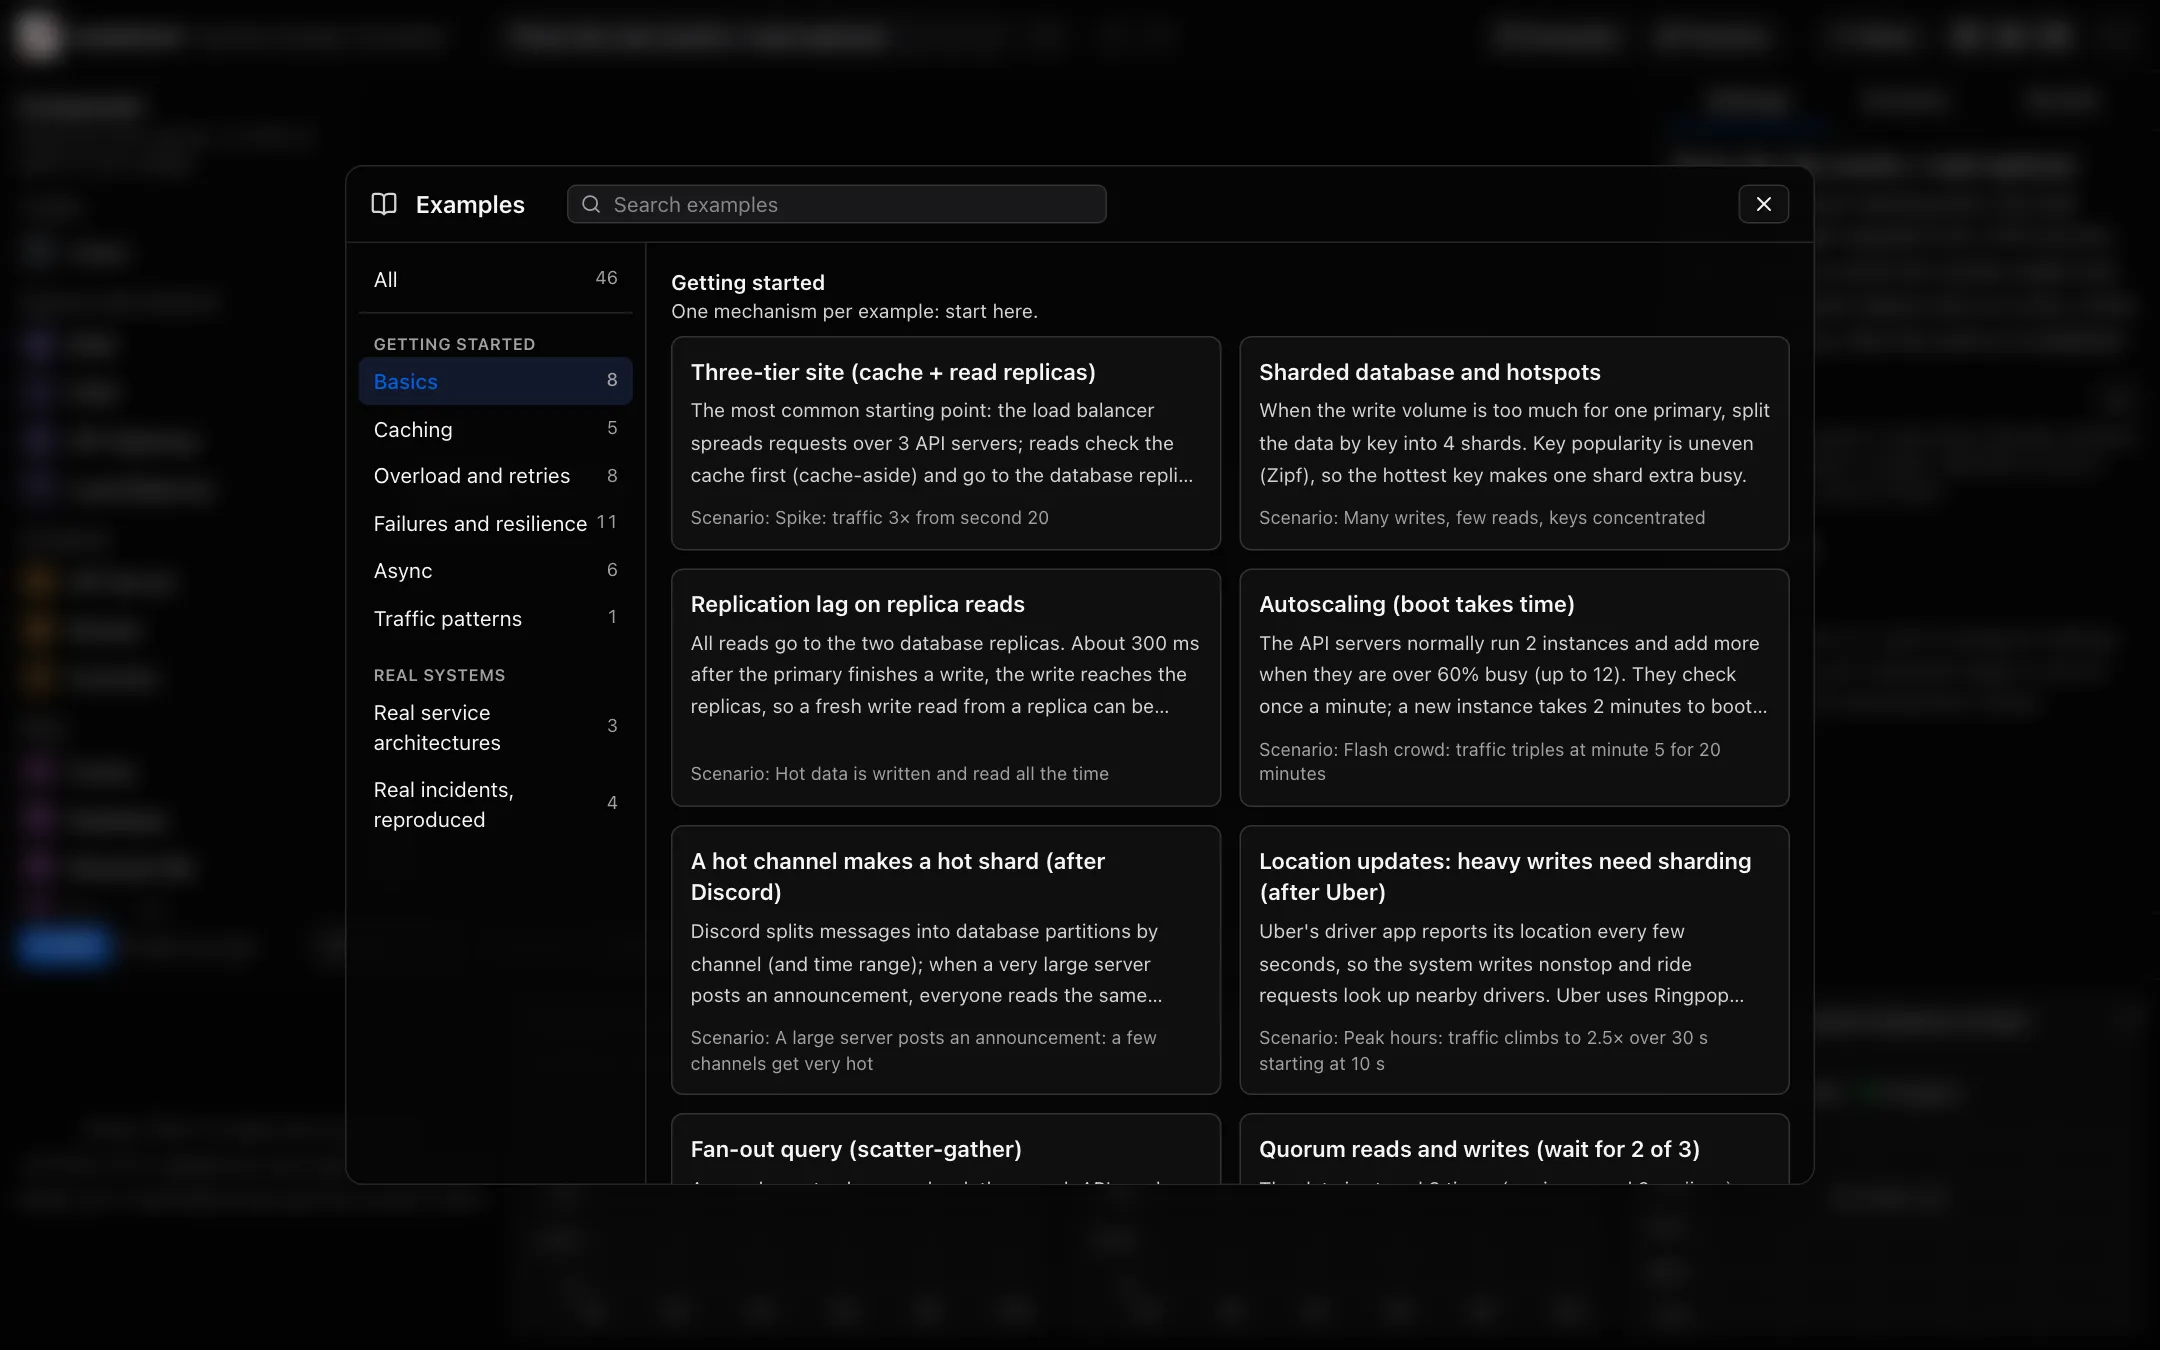
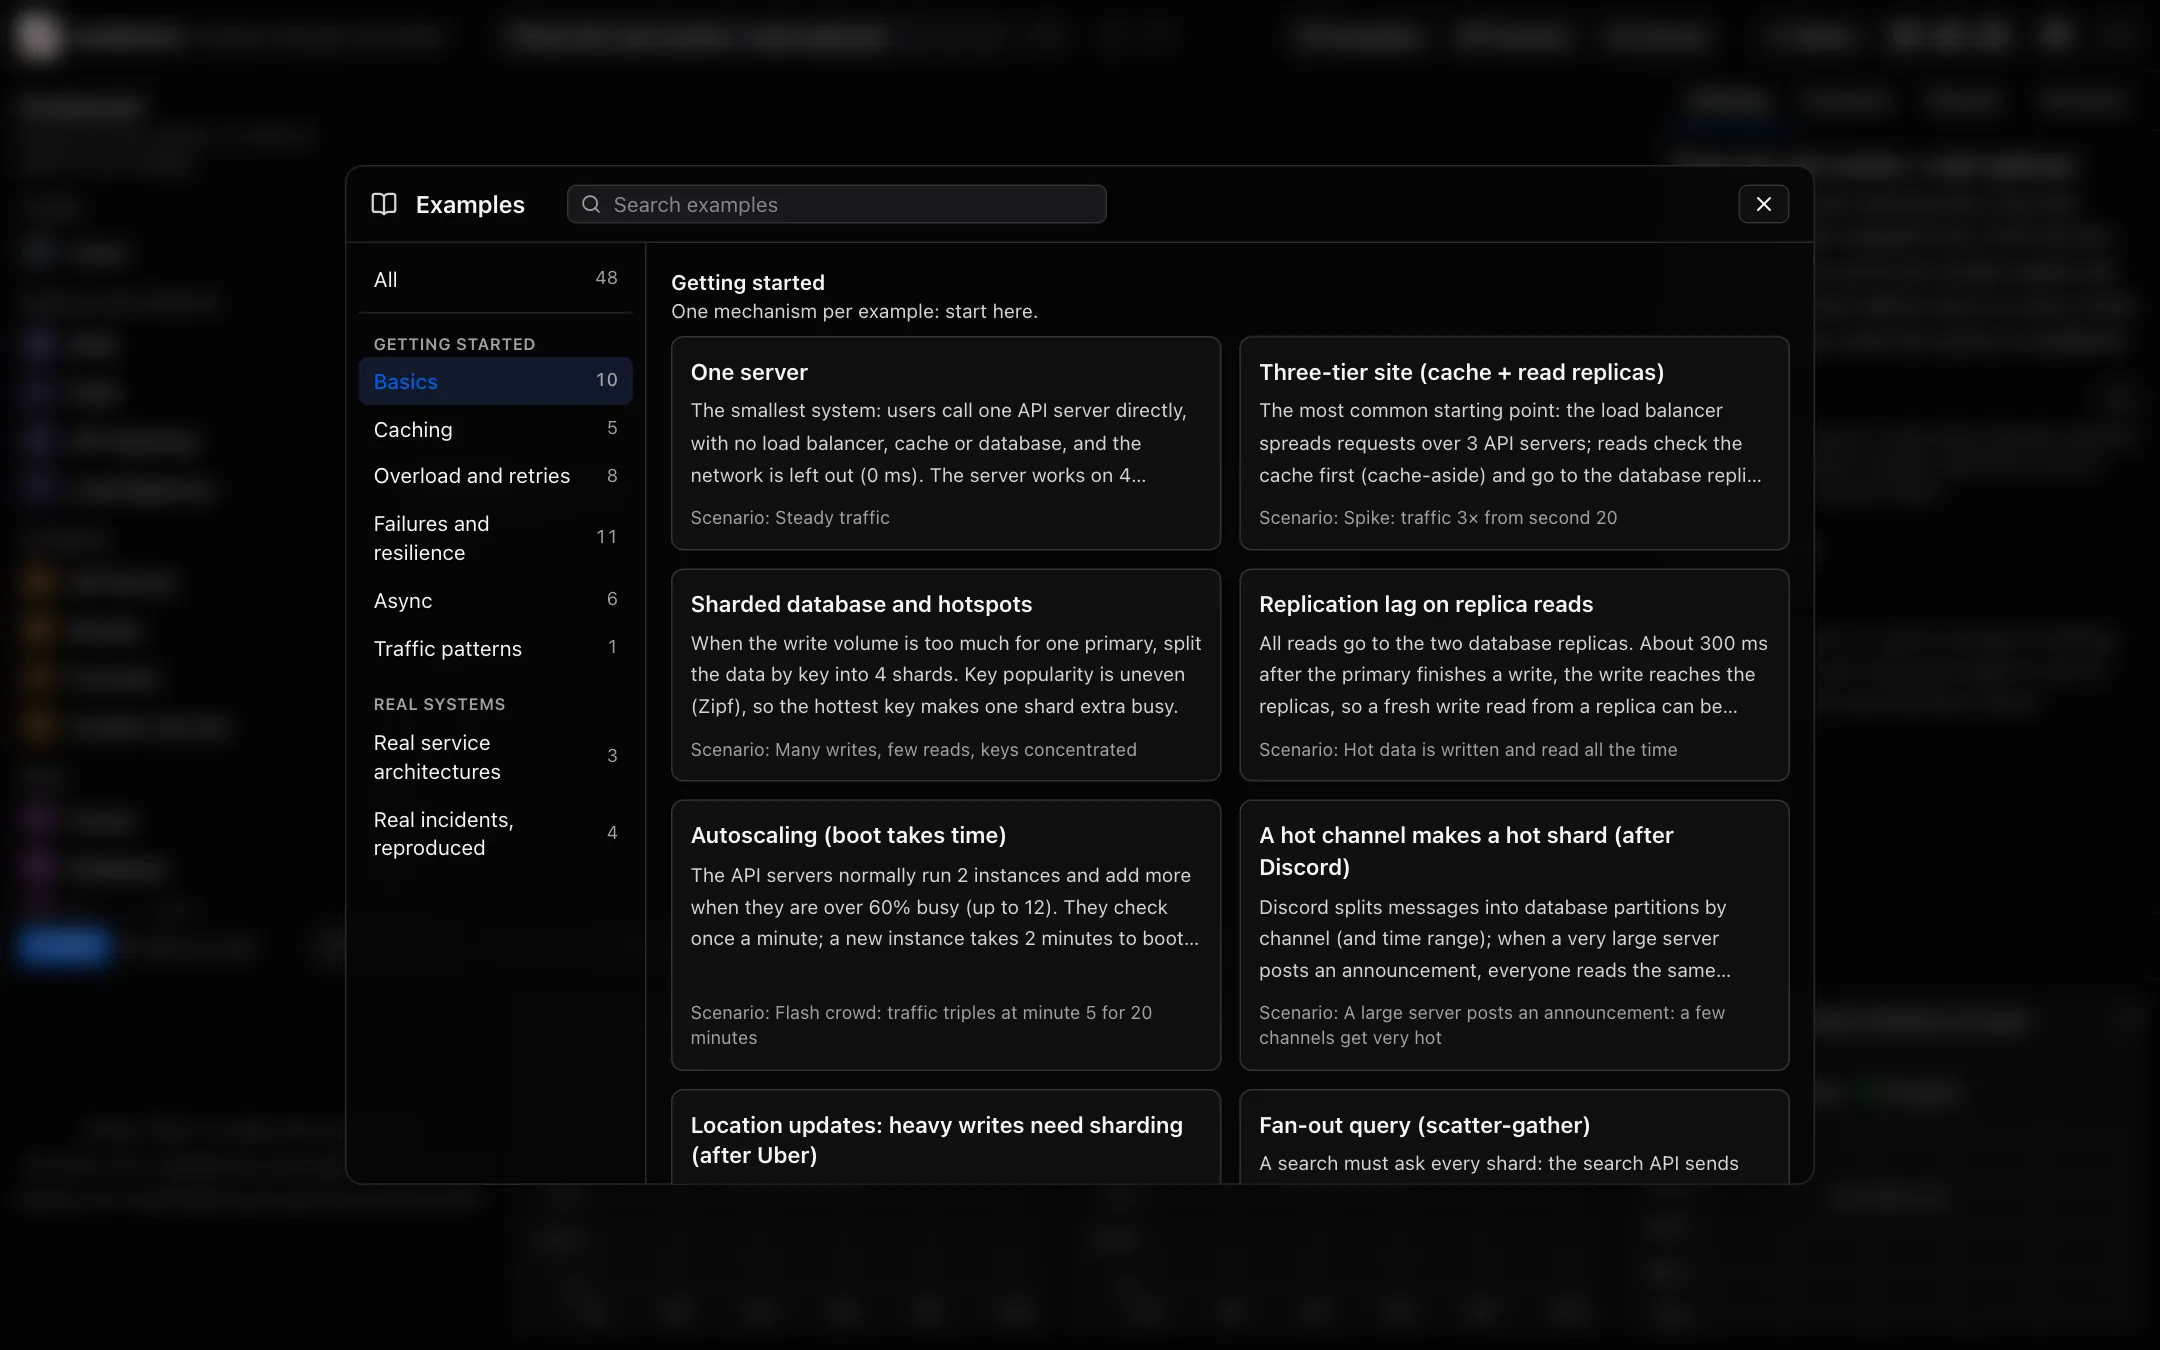
docs(site): update example count to 48, retake screenshots, unify adaptive throttling term

diff --git a/src/i18n/zh-TW.ts b/src/i18n/zh-TW.ts
@@ -641,7 +641,7 @@ export const ZH: Record<string, string> = {
   "Clicks concentrate on a few hot short URLs (a Zipf distribution), so room for a tenth of the keys catches most reads. It is not above 90% because every short URL misses the first time it is read, and in 60 seconds many cold short URLs are read only once.": "點擊集中在少數熱門短網址（Zipf 分布），所以放得下一成的 key 就接住了大部分的讀取。沒到九成是因為：每個短網址第一次被讀一定不命中，而 60 秒內很多冷門短網址只被讀一次。",
   "Client cache hit rate": "客戶端快取命中率",
   "Client timeout": "使用者逾時",
-  "Client-side throttling (Google SRE adaptive throttling). Over the last 10 s the caller counts requests sent and accepts (successes). A new call fails locally, without being sent, with probability max(0, (requests − K × accepts) ÷ (requests + 1)). K = 2 is the book's suggestion; a smaller K rejects earlier. 0 turns it off.": "呼叫端自己限流（Google SRE 的 adaptive throttling）。看最近 10 秒：送出 requests 次、成功 accepts 次；新的呼叫以 max(0, (requests − K × accepts) ÷ (requests + 1)) 的機率直接在本地失敗，不送出去。K = 2 是書上的建議值，越小擋得越早。0 表示不用。",
+  "Client-side throttling (Google SRE adaptive throttling). Over the last 10 s the caller counts requests sent and accepts (successes). A new call fails locally, without being sent, with probability max(0, (requests − K × accepts) ÷ (requests + 1)). K = 2 is the book's suggestion; a smaller K rejects earlier. 0 turns it off.": "呼叫端自適應限流（Google SRE 的 adaptive throttling）。看最近 10 秒：送出 requests 次、成功 accepts 次；新的呼叫以 max(0, (requests − K × accepts) ÷ (requests + 1)) 的機率直接在本地失敗，不送出去。K = 2 是書上的建議值，越小擋得越早。0 表示不用。",
   "Close": "關閉",
   "Close to the theory (within 2 times)": "和理論值接近（2 倍以內）",
   "CoDel drops a request whose wait passed its target (5 ms) when its turn comes, so a failure costs the user milliseconds, not a whole second. Turning work away early is the only way this engine slows the callers down: it has no backpressure, where the callers themselves send less.": "輪到某個請求時，如果它等的時間超過目標（5 ms），CoDel 就丟掉它，所以失敗只花使用者幾毫秒，不是整整一秒。及早拒絕工作是這個引擎唯一能讓呼叫端慢下來的方法：它沒有背壓（由呼叫端自己少送）。",

diff --git a/docs/model.md b/docs/model.md
@@ -175,15 +175,15 @@ API Gateway、API 伺服器和 worker 可以開 `autoscale: on`，行為像 Kube
   - `outlier: on`（被動檢查，像 Envoy 的 outlier detection）：看真實請求的回覆。同一台連續 `outlierErrors` 次失敗就剔除 `ejectS` 秒，之後放回來再試。算失敗的是像 Envoy consecutive 5xx 的回覆：錯誤、逾時、故障，和過載的拒絕（排隊滿了、降載、CoDel）。依賴的元件造成的失敗也算（真實的 proxy 也分不出來），所以最多同時剔除一條邊後面現在服務中實例的一半（至少 1 台；自動擴展還沒開的實例不算）。成功和其他回覆（例如限流的 429）把連續失敗數歸零。負載平衡器後面是資料庫、快取或不分實例的元件時，health check 和自動剔除不作用：那個目標被當成一個整體，故障時立刻跳過（設計檢查會提醒）。
   - 結果：負載平衡器的 `hcRemoved`（health check 移出次數）和 `ejections`（剔除次數）。
 - 佇列交給 worker 的線不看 `timeoutMs`、`retries` 和 `throttleK`；設計檢查會提醒。失敗後要不要重送，由佇列的 `delivery` 決定。
-- `retries`、`backoffMs`：失敗後重試，等待時間是 full jitter：`random(0, backoffMs × 2^(n−1))`。被限流（429）、被降載（`shed`）、保險絲跳開和呼叫端自我限流（`throttled`）都不重試。
+- `retries`、`backoffMs`：失敗後重試，等待時間是 full jitter：`random(0, backoffMs × 2^(n−1))`。被限流（429）、被降載（`shed`）、保險絲跳開和呼叫端自適應限流（`throttled`）都不重試。
 - `retryBudget`（重試預算，0 = 不限）：最近 10 秒內，這條邊的重試數最多是第一次呼叫數的 `retryBudget` 倍（例如 0.1 = 10%）。超過時不重試，直接回傳失敗，記在邊的 `denied`。重試在送出時才算。這是 gRPC retry throttling、Envoy retry budget 的簡化版。
 - `throttleK`（呼叫端自適應限流，0 = 不用）：Google SRE 書「Handling Overload」的 client-side adaptive throttling。呼叫端記住最近 10 秒這條邊的 requests（送出的呼叫，加上在本地擋掉的）和 accepts（成功的呼叫）。每次要送出前，以機率 max(0, (requests − K × accepts) ÷ (requests + 1)) 在本地直接失敗（`throttled`），不送出去，也不重試。
-  - 送出的呼叫在結果知道時（回覆、逾時）才算進 requests，所以還在路上的呼叫不會被當成失敗。送出 5 秒還沒有結果的呼叫，在第 5 秒先算進 requests（沒有 accept）；之後成功只再加一個 accept。所以下游完全卡住、又沒設逾時時，自我限流也會啟動。在本地擋掉的呼叫立刻算進 requests。
+  - 送出的呼叫在結果知道時（回覆、逾時）才算進 requests，所以還在路上的呼叫不會被當成失敗。送出 5 秒還沒有結果的呼叫，在第 5 秒先算進 requests（沒有 accept）；之後成功只再加一個 accept。所以下游完全卡住、又沒設逾時時，自適應限流也會啟動。在本地擋掉的呼叫立刻算進 requests。
   - 穩定過載時，送出的呼叫約是成功數的 K 倍，其他在本地擋掉；下游少做很多白工。代價：有些擋掉的呼叫其實下游有空，所以成功數會少一點。
   - 書上用 2 分鐘的窗口；這裡的模擬時間短，用 10 秒。
   - 恢復要時間：下游全部失敗一陣子後，窗口裡幾乎都是失敗，呼叫端只放很少的呼叫出去。每次成功多放大約 K 次，送出量慢慢變大；要等成功數追上 requests ÷ K 才完全不擋。
 - `bulkhead`（隔艙，0 = 不限）：呼叫端每台實例最多同時有幾個呼叫走這條邊（Hystrix 的 thread-pool bulkhead）。名額從送出開始佔用，到回覆或逾時為止；重試等待時不佔。滿了就在本地直接失敗（`bulkhead`），不送出、不重試。呼叫端是 API Server、API Gateway、Worker、快取時，名額是每台實例各自的；呼叫端不分實例時（例如負載平衡器、保險絲），名額是整條邊共用。
-- `fallback: on`（降級回應）：這條邊的呼叫最後還是失敗（重試用完、逾時、保險絲跳開、隔艙已滿、自我限流）時，呼叫端改用備用回應：呼叫算成功，但標成「降級」，一路往上傳。使用者收到的成功回應裡，有降級的另外算在 `summary.degraded`（只有設計裡有邊開了 fallback 時才有這個欄位）。邊的 `fallbacks` 是改用備用回應的次數。快取旁路（cache-aside）讀資料庫時拿到降級回應，不會寫進快取；read-through、write-through 也一樣。快取旁路（cache-aside）的查詢不用降級回應：呼叫端也連著資料庫，快取查不到或故障時本來就會去讀資料庫（設計檢查會提醒）。read-through 快取不同：呼叫端只連快取，快取故障時降級回應照樣作用。保險絲（circuit breaker）出去的邊開了降級回應時，保險絲還是把那次呼叫算成失敗，所以下游壞掉時照樣會跳開；跳開後被擋下的呼叫也改用降級回應，不會回 `circuit_open`。
+- `fallback: on`（降級回應）：這條邊的呼叫最後還是失敗（重試用完、逾時、保險絲跳開、隔艙已滿、自適應限流）時，呼叫端改用備用回應：呼叫算成功，但標成「降級」，一路往上傳。使用者收到的成功回應裡，有降級的另外算在 `summary.degraded`（只有設計裡有邊開了 fallback 時才有這個欄位）。邊的 `fallbacks` 是改用備用回應的次數。快取旁路（cache-aside）讀資料庫時拿到降級回應，不會寫進快取；read-through、write-through 也一樣。快取旁路（cache-aside）的查詢不用降級回應：呼叫端也連著資料庫，快取查不到或故障時本來就會去讀資料庫（設計檢查會提醒）。read-through 快取不同：呼叫端只連快取，快取故障時降級回應照樣作用。保險絲（circuit breaker）出去的邊開了降級回應時，保險絲還是把那次呼叫算成失敗，所以下游壞掉時照樣會跳開；跳開後被擋下的呼叫也改用降級回應，不會回 `circuit_open`。
   - 只開 fallback 不夠：呼叫還是要等到逾時才失敗，呼叫端的槽一樣被卡住。只開 bulkhead 也不夠：擋下的呼叫讓請求失敗。兩個一起用，慢的下游只卡住幾個名額，其他請求立刻拿到降級回應。
 - `hedgeMs`（對沖請求，0 = 不用）：讀取送出 `hedgeMs` 還沒有回覆，就再送一份（Dean & Barroso〈The Tail at Scale〉的 hedged request）。只對讀取；寫入重送不安全，不對沖。
   - 經過負載平衡器時，第二份送到另一台實例（只有一台時才可能同一台）。第二份也佔隔艙名額；名額滿了就不送第二份。逾時（`timeoutMs`）算整次呼叫，不是每份各算。
@@ -219,7 +219,7 @@ API Gateway、API 伺服器和 worker 可以開 `autoscale: on`，行為像 Kube
   - 自訂服務：台數 × 使用者填的每台每小時價格（預設 $0.08）。價格不隨同時處理數變：使用者填的就是整台的價格。
   - 託管元件：負載平衡器每小時 $0.025 ＋每百萬請求 $0.003；API Gateway 每百萬 $3.5；佇列每百萬 $0.4；CDN 每百萬 $1；DNS 每百萬 $0.4。
   - 物件儲存：每百萬寫入 $5、讀取 $0.4。送給使用者的流量：每個請求 2 KB，每 GB $0.09。跨區流量：引擎在每條線上數「真的跨兩區」的訊息：送到和呼叫端不同區的實例的每一份（含重試、扇出的每一份、送到別區副本的讀取、failover 後搬到別區的主庫），加上每筆跨區快取複製（同區的快取複製不算）；每筆算 2 KB，每 GB $0.02。資料庫跨區副本的複製流量不算。
-- 複雜度點數（`src/learn/constraints.ts`）代表團隊要建和顧的東西：人少、期限短，上限就低。每個元件 0–5 點（分片資料庫 5、快取／資料庫／佇列 2、其他 1（含自訂服務）、使用者和 DNS 0）；讀副本、自動切換主庫、自動擴充、outlier detection、主動健康檢查、防擊穿、對沖請求、扇出、降級回應、隔艙、自我限流、重試預算各 1 點；多區域 5 點。
+- 複雜度點數（`src/learn/constraints.ts`）代表團隊要建和顧的東西：人少、期限短，上限就低。每個元件 0–5 點（分片資料庫 5、快取／資料庫／佇列 2、其他 1（含自訂服務）、使用者和 DNS 0）；讀副本、自動切換主庫、自動擴充、outlier detection、主動健康檢查、防擊穿、對沖請求、扇出、降級回應、隔艙、自適應限流、重試預算各 1 點；多區域 5 點。
 - 限制條件題目：失敗率、p99、每月成本、複雜度都是門檻；全部達到才過關，分數 = 50 + 50 × (預算 − 成本) ÷ 預算。
 
 ## 7. 和排隊理論對照

diff --git a/README.zh-TW.md b/README.zh-TW.md
@@ -50,7 +50,7 @@ npm run dev        # 模擬器：http://127.0.0.1:5317/app/　介紹頁：http:/
   <img alt="跑完之後，模擬器照時間說明發生了什麼" src="src/site/media/why-zh-light.webp">
 </picture>
 
-### 47 個範例
+### 48 個範例
 
 <picture>
   <source media="(prefers-color-scheme: dark)" srcset="src/site/media/examples-zh-dark.webp">
